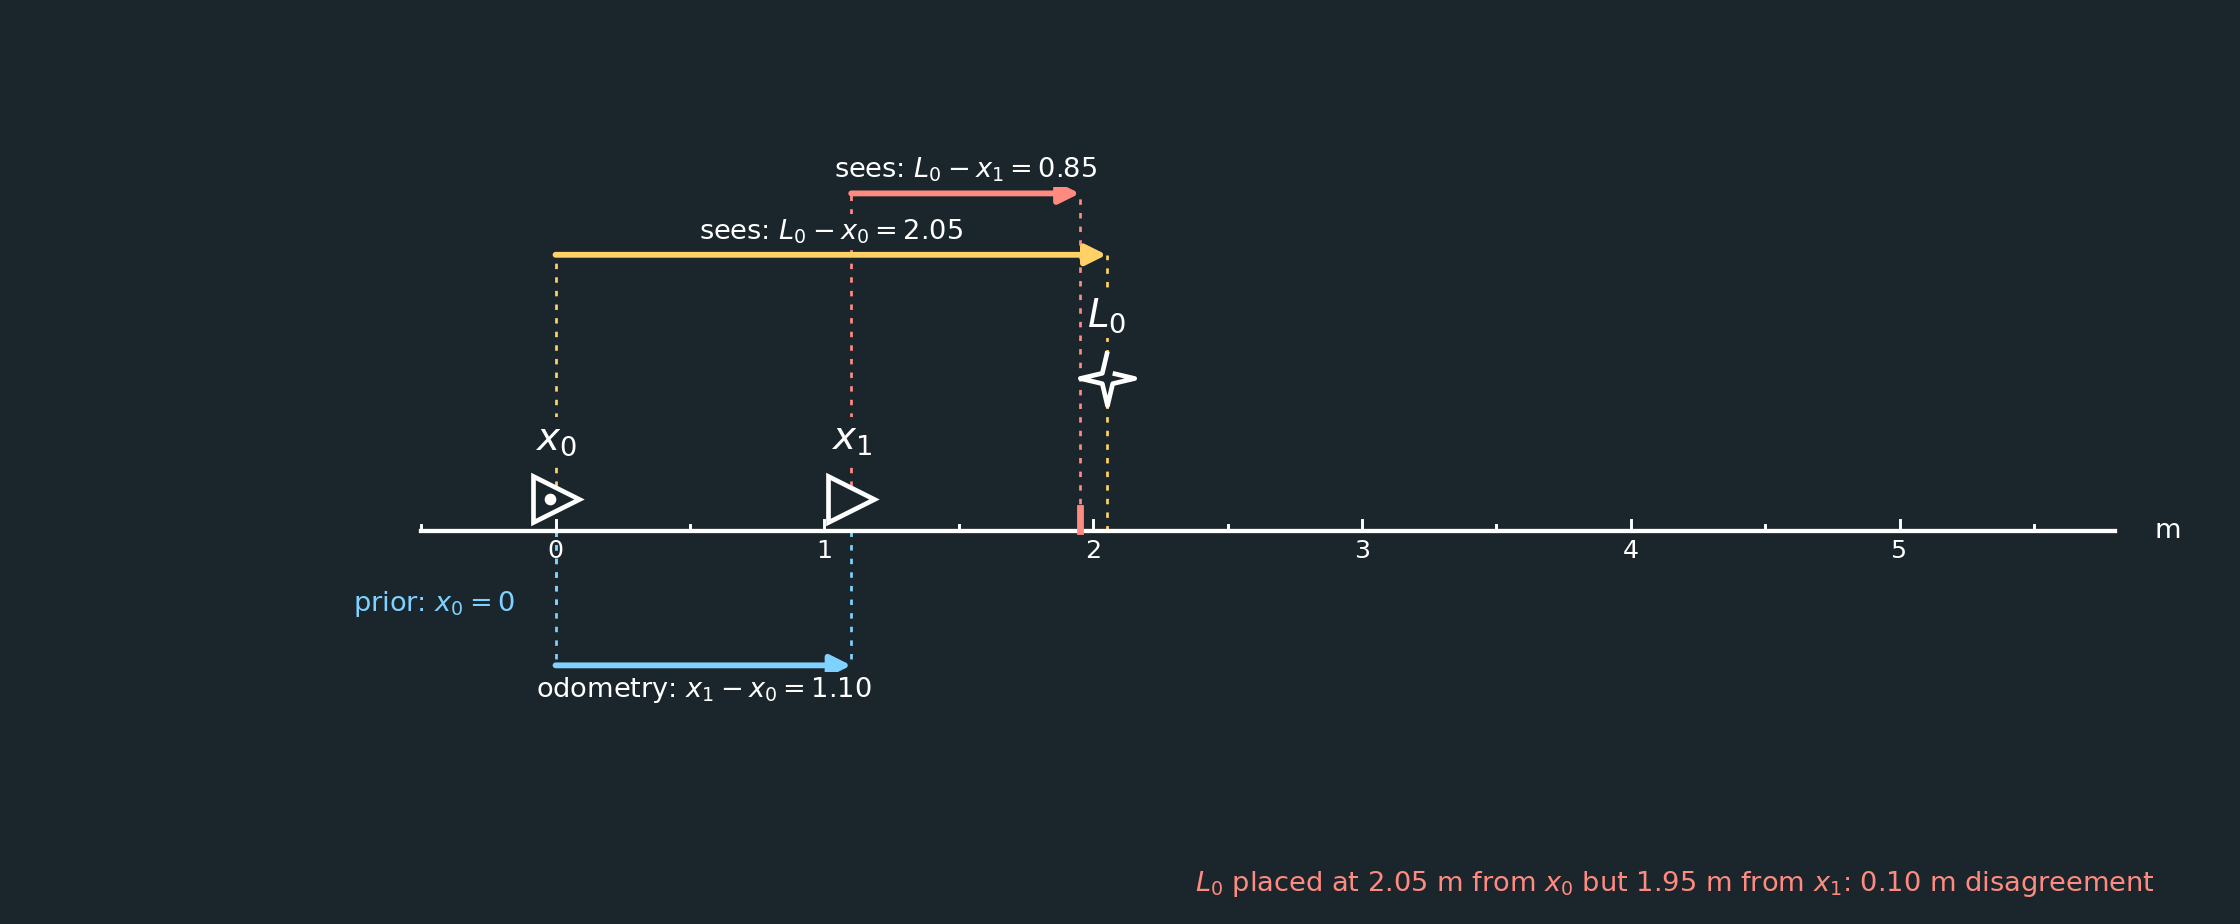
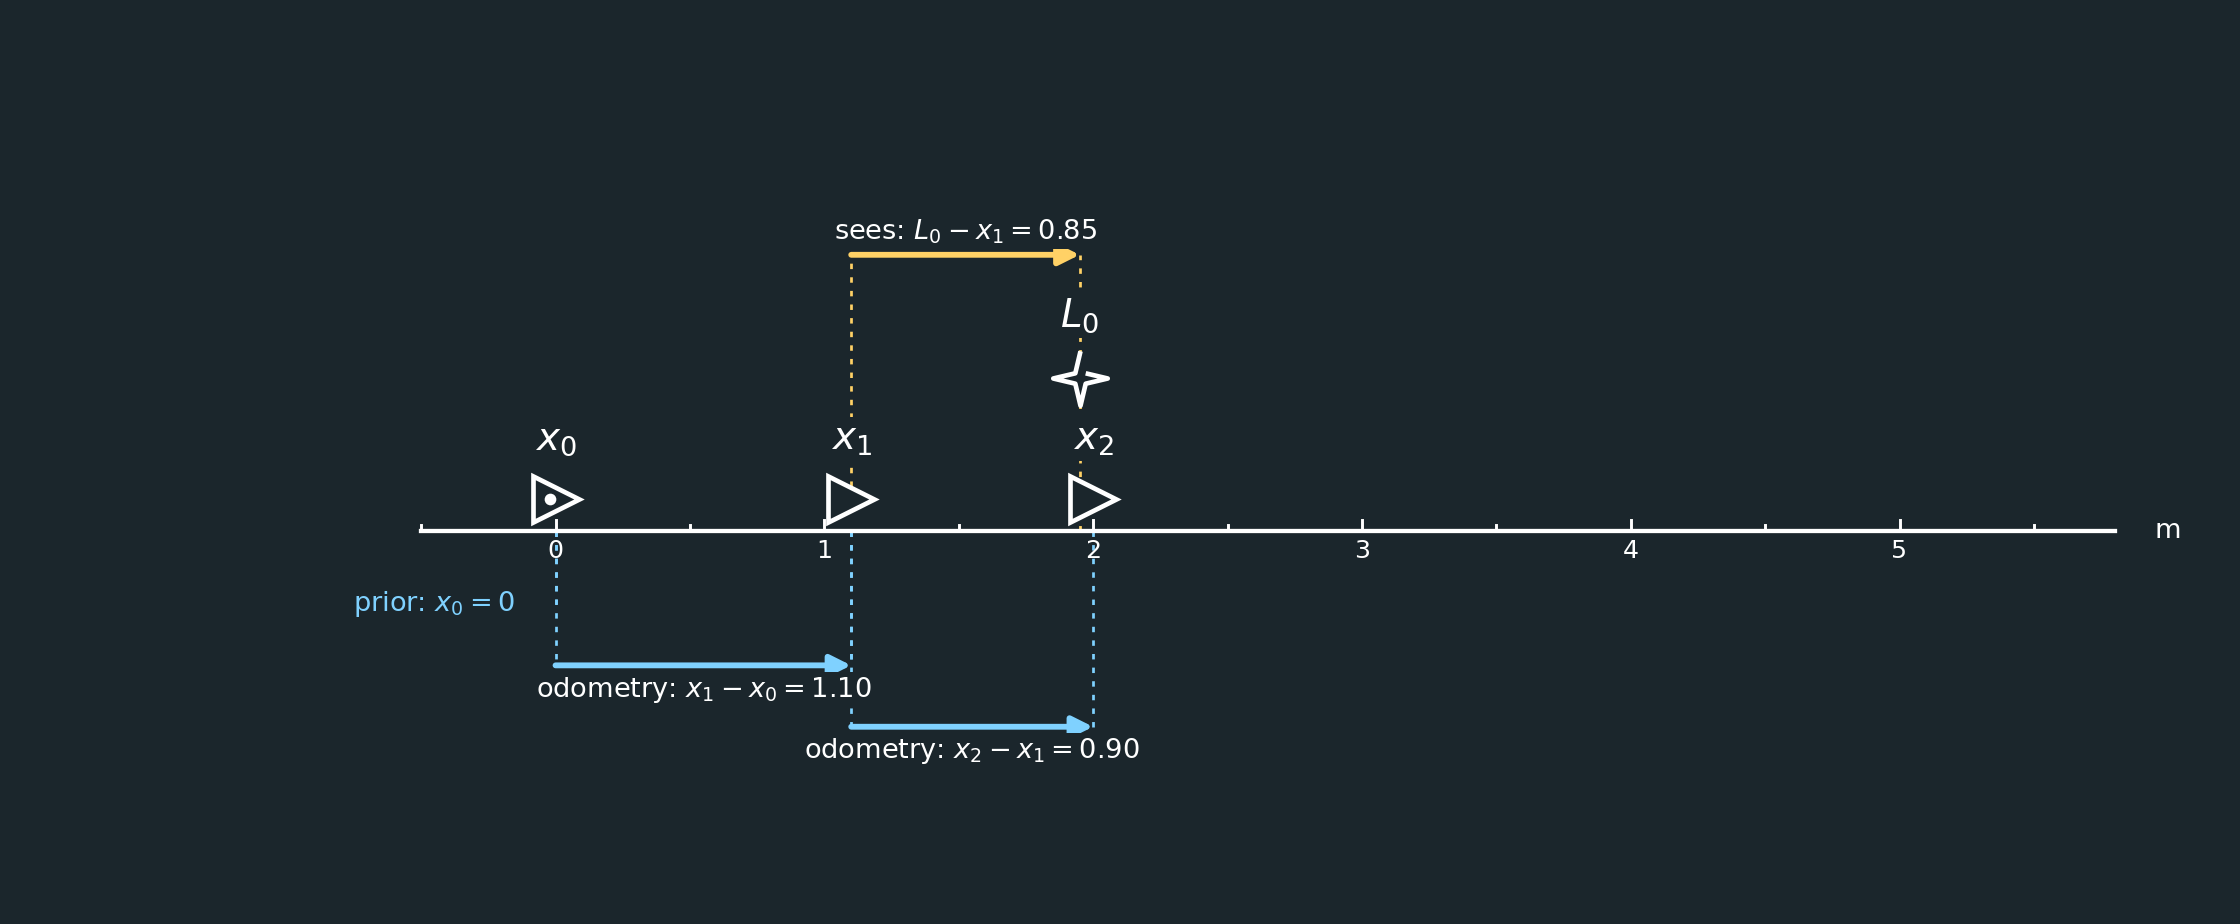
Refactor code structure for improved readability and maintainability

diff --git a/Graph_SLAM/Documents/images/generate_step_figures.py b/Graph_SLAM/Documents/images/generate_step_figures.py
@@ -3,6 +3,7 @@
 Run from anywhere:  python Graph_SLAM/Documents/images/generate_step_figures.py
 """
 import os
+import re
 
 import matplotlib
 
@@ -31,7 +32,7 @@ POS = {
     "x1": (2.0, 0.0),
     "x2": (4.0, 0.0),
     "x3": (6.0, 0.0),
-    "L0": (1.0, 1.7),
+    "L0": (3.0, 1.7),
     "L1": (4.6, -1.7),
     "L2": (6.8, 1.7),
 }
@@ -41,18 +42,22 @@ POS = {
 STEPS = [
     [("prior", "x0", None, 0.0, 1.0)],
     [("odom", "x0", "x1", 1.10, 1.0)],
-    [("obs", "x0", "L0", 2.05, 1.0)],
     [("obs", "x1", "L0", 0.85, 1.0)],
-    [("odom", "x1", "x2", 0.90, 1.0), ("obs", "x2", "L1", 1.55, 1.0)],
-    [("odom", "x2", "x3", 1.20, 1.0), ("obs", "x3", "L2", 1.92, 1.0)],
+    [("odom", "x1", "x2", 0.90, 1.0)],
+    [("obs", "x2", "L0", 0.05, 1.0)],
+    [("obs", "x2", "L1", 1.55, 1.0)],
+    [("odom", "x2", "x3", 1.20, 1.0)],
+    [("obs", "x3", "L2", 1.92, 1.0)],
 ]
 FILES = [
     "step1_anchor.png",
     "step2_move_to_x1.png",
     "step3_observe_l0.png",
-    "step4_observe_l0_again.png",
-    "step5_move_to_x2.png",
-    "step6_move_to_x3.png",
+    "step4_move_to_x2.png",
+    "step5_observe_l0_again.png",
+    "step6_observe_l1.png",
+    "step7_move_to_x3.png",
+    "step8_observe_l2.png",
 ]
 
 
@@ -169,6 +174,8 @@ WORLD_FILES = [
     "step4_world_1d.png",
     "step5_world_1d.png",
     "step6_world_1d.png",
+    "step7_world_1d.png",
+    "step8_world_1d.png",
 ]
 CONFLICT = "#ff8a80"
 SOLUTION_FILE = "solution_world_1d.png"
@@ -292,6 +299,7 @@ def main():
     nodes, edges = [], []
     positions = {"x0": 0.0}
     odoms, obs = [], []
+    first_obs_pose = {}
     conflict_note = ""
 
     for step, (measurements, fname, world_fname) in enumerate(zip(STEPS, FILES, WORLD_FILES), start=1):
@@ -311,12 +319,13 @@ def main():
                 conflict = b in positions
                 if not conflict:
                     positions[b] = end
+                    first_obs_pose[b] = a
                 else:
                     gap = abs(end - positions[b])
-                    conflict_note = (f"{b[0]}{b[1]} placed at {positions[b]:.2f} m from x0 but "
-                                     f"{end:.2f} m from x1: {gap:.2f} m disagreement")
+                    conflict_note = (f"{b[0]}{b[1]} placed at {positions[b]:.2f} m from {first_obs_pose[b]} but "
+                                     f"{end:.2f} m from {a}: {gap:.2f} m disagreement")
                 obs.append((a, b, z, end, conflict))
-        conflict_note_fig = conflict_note.replace("L0", "$L_0$").replace("x0", "$x_0$").replace("x1", "$x_1$")
+        conflict_note_fig = re.sub(r"([xL])(\d+)", r"$\1_\2$", conflict_note)
 
         if step == 2:
             # Motion only so far: a single odometry edge reproduces dead reckoning, with no redundancy to check it.
@@ -334,12 +343,12 @@ def main():
         fig.savefig(os.path.join(OUT_DIR, world_fname), dpi=140, facecolor=BG)
         plt.close(fig)
 
-    expected_xi = np.array([-3.15, -0.65, -1.85, -0.72, 2.9, 1.55, 1.92])
+    expected_xi = np.array([-1.10, -0.65, -1.90, -0.72, 0.90, 1.55, 1.92])
     assert np.allclose(xi, expected_xi), xi
-    assert np.allclose(np.diag(omega), [3, 3, 3, 2, 2, 1, 1]), np.diag(omega)
+    assert np.allclose(np.diag(omega), [2, 3, 4, 2, 2, 1, 1]), np.diag(omega)
 
     mu = np.linalg.solve(omega, xi)
-    expected_mu = np.array([0.0, 1.1333, 2.0333, 3.2333, 2.0167, 3.5833, 5.1533])
+    expected_mu = np.array([0.0, 1.1000, 1.9667, 3.1667, 1.9833, 3.5167, 5.0867])
     assert np.allclose(mu, expected_mu, atol=5e-4), mu
     fig = plt.figure(figsize=(16, 4.4), facecolor=BG)
     draw_solution(fig, mu)
